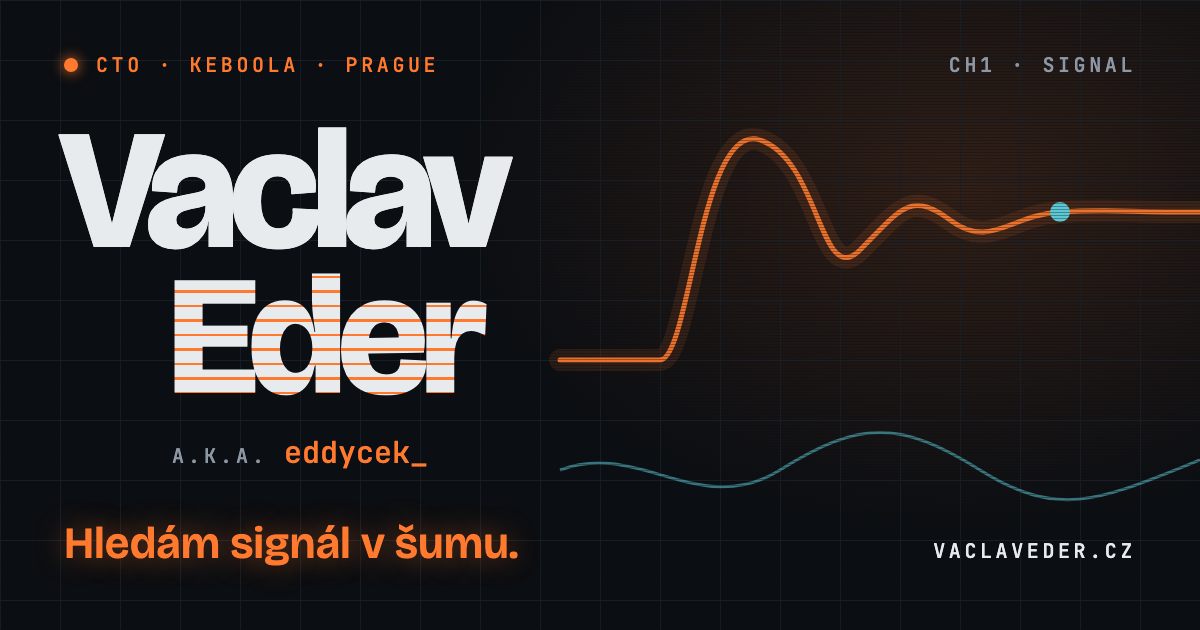
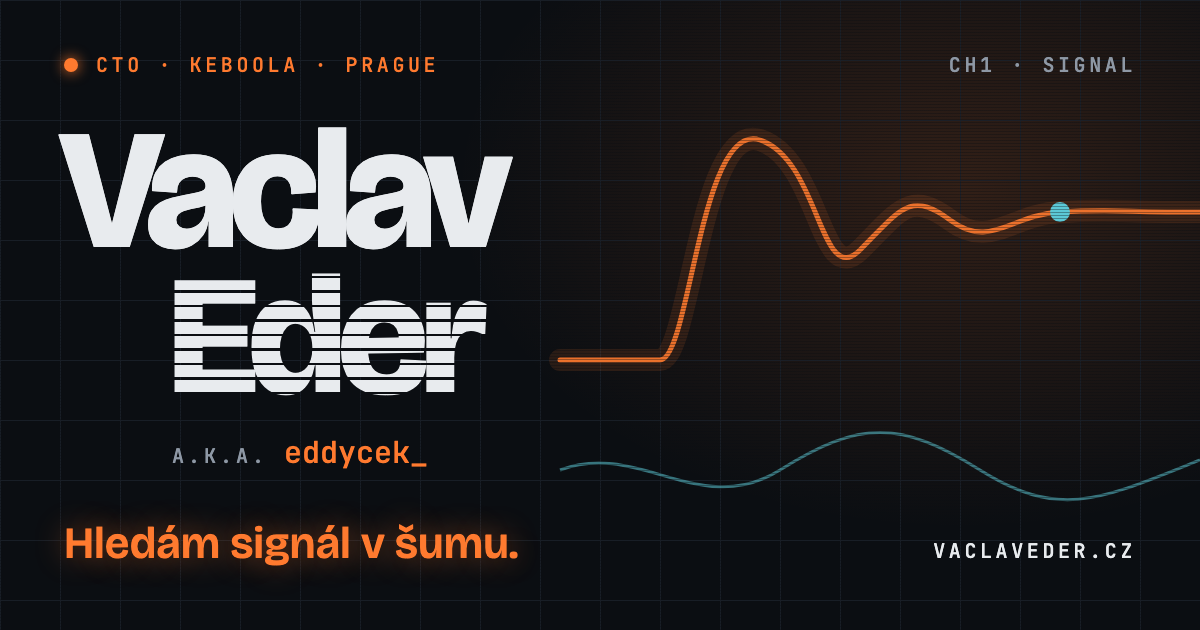
Eder back to dark scanline gaps; gentle glitch on the nickname

Changed region(s): [[0.1542, 0.4825, 0.4008, 0.6333], [0.1542, 0.4524, 0.2158, 0.5429]]

diff --git a/CLAUDE.md b/CLAUDE.md
@@ -6,7 +6,7 @@ Personal site of Václav "eddycek" Eder. Astro (static), vanilla Canvas animatio
 - All copy lives in `src/content/cs.ts` and `src/content/en.ts` (same shape, `types.ts`). Keep both in sync.
 - `src/content/slayer.ts` holds the full poem (verbatim, never edit wording).
 - Contact details and social links: `src/content/contact.ts`.
-- Style rules for copy: no em dash; use semicolons instead of colons in prose; "Dark Factory" capitalised; "kontent" instead of "obsah"; "independent" for artists; "MacBook" not "notebook". Czech copy uses ty (tykání, "Napiš mi"), never vy. Use Eddy's anglicisms (business, shipovat, mindset, game changer, scale…). "Music" not "hudba", "Cyber security" not "Security". Hero shows "Vaclav" without diacritics; meta and JSON-LD keep "Václav". Never mention moving to Prague. Hero (final, do not change): "Vaclav" solid light, "Eder" light with thin orange scanlines (7px ink / 1.5px signal), indented. Never put game or film artwork or a recognisable character likeness on the site.
+- Style rules for copy: no em dash; use semicolons instead of colons in prose; "Dark Factory" capitalised; "kontent" instead of "obsah"; "independent" for artists; "MacBook" not "notebook". Czech copy uses ty (tykání, "Napiš mi"), never vy. Use Eddy's anglicisms (business, shipovat, mindset, game changer, scale…). "Music" not "hudba", "Cyber security" not "Security". Hero shows "Vaclav" without diacritics; meta and JSON-LD keep "Václav". Never mention moving to Prague. Hero (final, do not change): "Vaclav" solid light, "Eder" light with thin dark scanline gaps (7px ink / 1.5px gap), indented. Nickname glitches gently (data-glitch="name"). Never put game or film artwork or a recognisable character likeness on the site.
 
 ## Workflow for every change
 1. `npm run dev` for live work (http://localhost:4321).
